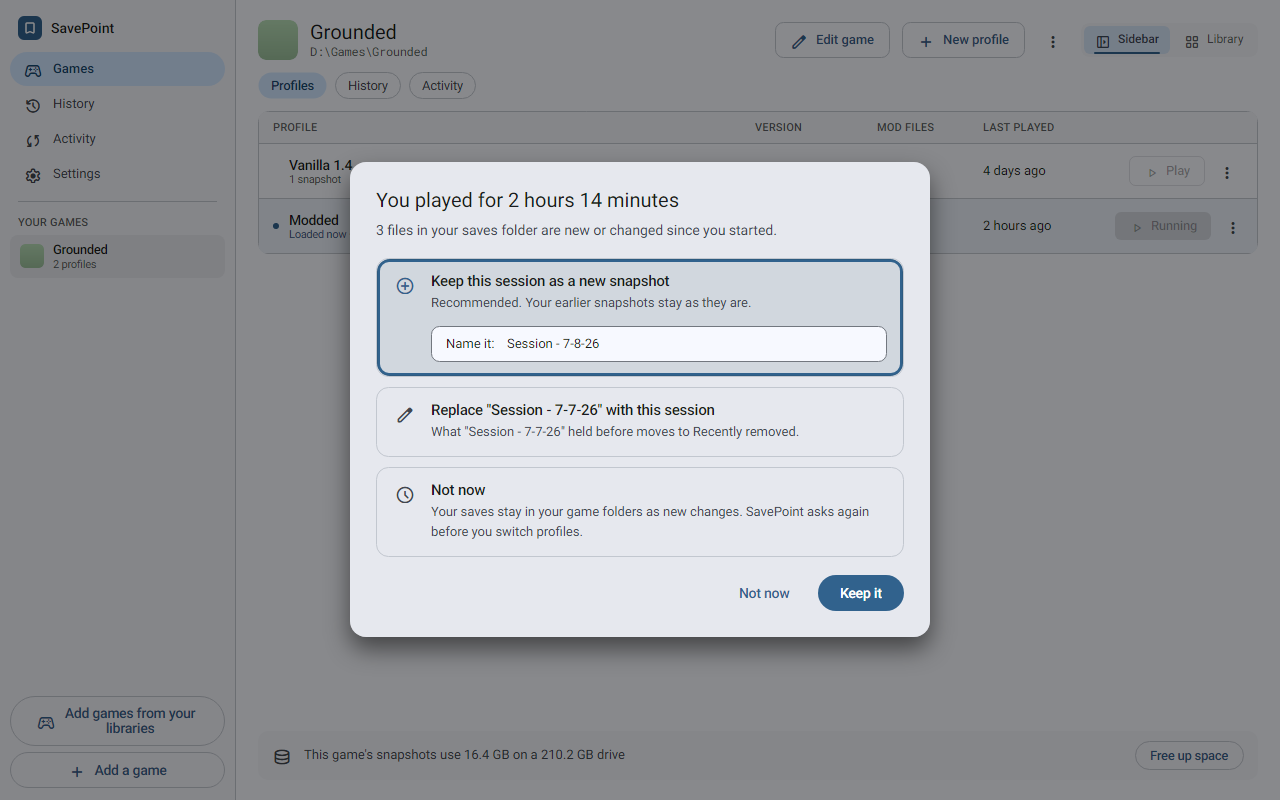
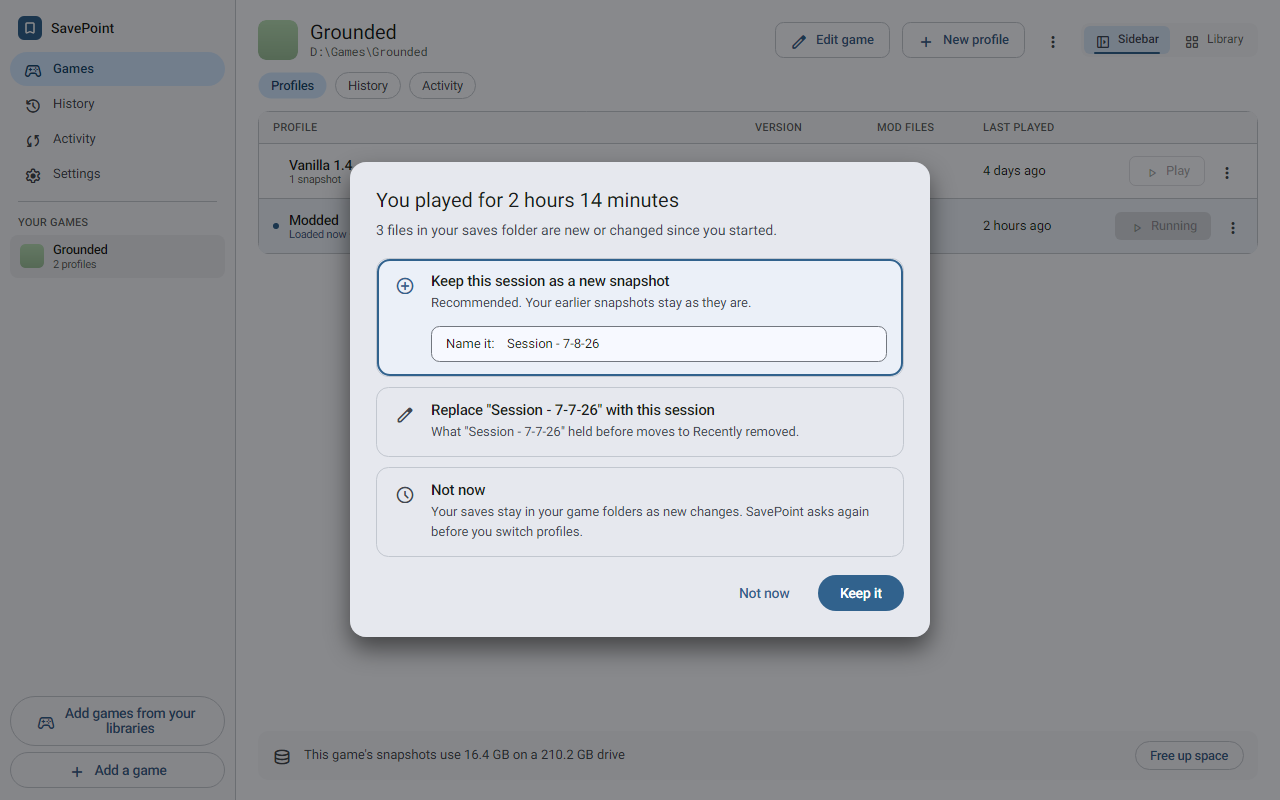
Fix doc screenshots and first-snapshot wording
The doc images showed the pre-0.9.11 storage folder, so the seed now uses
the Windows default (SavePoint Data\Storage). The job drops keyboard focus
before every picture so no focus ring is drawn.

Activity details for a new profile's first snapshot read 'Taking snapshot
"Vanilla 1.4" of "Vanilla 1.4"' because the snapshot is named after its
profile. That case now writes a step of its own: 'Taking the first snapshot
of "Vanilla 1.4".'. The fake backend mirrors it.

Observed reds: CaptureLinesTests.Creating_a_profile_writes_the_same_steps_with_the_new_profiles_name
(Expected activity.step.capture.startFirst {profile=Modded 1.6}, Actual
activity.step.capture.start {profile=Modded 1.6, snapshot=Modded 1.6});
JobLineFormatterTests.A_step_is_said_in_the_catalogs_words_with_its_arguments
(Expected 'Taking the first snapshot of "Vanilla 1.4".', Actual 'Something
happened that this version of SavePoint ...') and
Every_step_core_writes_has_a_sample_here_and_a_message_that_says_something.

Changed region(s): [[0.2812, 0.3125, 0.7188, 0.4688]]

diff --git a/tests/Savepoint.App.Tests/Features/DocScreenshots/DocScreenshotJob.cs b/tests/Savepoint.App.Tests/Features/DocScreenshots/DocScreenshotJob.cs
@@ -1,5 +1,6 @@
 using Avalonia;
 using Avalonia.Controls;
+using Avalonia.Input;
 using Avalonia.VisualTree;
 using Savepoint.App.Features.Activity;
 using Savepoint.App.Features.Editor;
@@ -71,27 +72,36 @@ internal static class DocScreenshotJob
         return app;
     }
 
+    // A page shows no keyboard focus ring, so focus is dropped before the picture is taken.
+    private static void Draw(ComposedApp app, string path)
+    {
+        app.Settle();
+        app.Window.Focusable = true;
+        app.Window.Focus(NavigationMethod.Unspecified);
+        app.RenderTo(path);
+    }
+
     private static ProfileRowViewModel Row(ComposedApp app, string id) => app.Games.Profiles.Single(row => row.Id == id);
 
     private static async Task Games(string path)
     {
         using var app = await StartAsync(Full(withSurvivalProfile: true));
 
-        app.RenderTo(path);
+        Draw(app, path);
     }
 
     private static async Task Profiles(string path)
     {
         using var app = await StartAsync(Full());
 
-        app.RenderTo(path);
+        Draw(app, path);
     }
 
     private static async Task FirstRun(string path)
     {
         using var app = await StartAsync(NoGames());
 
-        app.RenderTo(path);
+        Draw(app, path);
     }
 
     private static async Task AddGame(string path)
@@ -106,7 +116,7 @@ internal static class DocScreenshotJob
         editor.ExePath = "Grounded.exe";
         await editor.RefreshSuggestionsAsync();
 
-        app.RenderTo(path);
+        Draw(app, path);
     }
 
     private static async Task FirstSnapshot(string path)
@@ -121,7 +131,7 @@ internal static class DocScreenshotJob
             app.Backend.Jobs.LastStarted(JobKind.Capture).JobId,
             new JobProgress(60, 128, BytesDone: 9_300_000_000, BytesTotal: 12_100_000_000, CurrentPath: @"Maine\Content\Paks\pakchunk0-WindowsNoEditor.pak"));
 
-        app.RenderTo(path);
+        Draw(app, path);
     }
 
     private static async Task BeforePlaying(string path)
@@ -129,7 +139,7 @@ internal static class DocScreenshotJob
         using var app = await StartAsync(Full());
         _ = Row(app, VanillaId).PlayCommand.ExecuteAsync(null);
 
-        app.RenderTo(path);
+        Draw(app, path);
     }
 
     private static async Task AfterPlay(string path)
@@ -139,7 +149,7 @@ internal static class DocScreenshotJob
         app.Backend.Launch.ReportRunning(GameId, Now - TimeSpan.FromMinutes(134));
         app.Backend.Launch.ReportExited(GameId, new TimeSpan(2, 14, 0), 3);
 
-        app.RenderTo(path);
+        Draw(app, path);
     }
 
     private static async Task History(string path)
@@ -147,7 +157,7 @@ internal static class DocScreenshotJob
         using var app = await StartAsync(Full());
         app.Shell.Navigate(NavDestination.History);
 
-        app.RenderTo(path);
+        Draw(app, path);
     }
 
     private static async Task RecentlyRemoved(string path)
@@ -156,7 +166,7 @@ internal static class DocScreenshotJob
         app.Shell.Navigate(NavDestination.History);
         app.History.IsRemovedOpen = true;
 
-        app.RenderTo(path);
+        Draw(app, path);
     }
 
     private static async Task SettingsScreen(string path)
@@ -164,7 +174,7 @@ internal static class DocScreenshotJob
         using var app = await StartAsync(Full());
         app.Shell.Navigate(NavDestination.Settings);
 
-        app.RenderTo(path);
+        Draw(app, path);
     }
 
     // Five finished jobs and one still running, the newest first; the newest finished one, a snapshot of Vanilla, is open with its details.
@@ -216,6 +226,6 @@ internal static class DocScreenshotJob
         app.Settle();
         app.Find<ListBox>("JobList").GetVisualDescendants().OfType<ScrollViewer>().First().ScrollToHome();
 
-        app.RenderTo(path);
+        Draw(app, path);
     }
 }

diff --git a/tests/Savepoint.App.Tests/Features/Activity/JobLineFormatterTests.cs b/tests/Savepoint.App.Tests/Features/Activity/JobLineFormatterTests.cs
@@ -17,6 +17,7 @@ public class JobLineFormatterTests
     private static readonly IReadOnlyDictionary<string, JobLine.Step> _samples = new[]
     {
         JobLine.ForStep(JobSteps.CaptureStart, ("profile", "Vanilla"), ("snapshot", "After the patch")),
+        JobLine.ForStep(JobSteps.CaptureStartFirst, ("profile", "Vanilla 1.4")),
         JobLine.ForStep(JobSteps.CaptureFolder, ("folder", RepoRole.Install), ("path", @"C:\Games\Skyrim")),
         JobLine.ForStep(JobSteps.CaptureFolderDone, ("folder", RepoRole.External), ("files", 3)),
         JobLine.ForStep(JobSteps.CaptureFolderNotIncluded, ("folder", RepoRole.External)),
@@ -65,6 +66,8 @@ public class JobLineFormatterTests
     [Fact]
     public void A_step_is_said_in_the_catalogs_words_with_its_arguments()
     {
+        Assert.Equal("Taking snapshot \"After the patch\" of \"Vanilla\".", Format(_samples[JobSteps.CaptureStart]));
+        Assert.Equal("Taking the first snapshot of \"Vanilla 1.4\".", Format(_samples[JobSteps.CaptureStartFirst]));
         Assert.Equal("3 files were new, changed or removed in the saves folder.", Format(_samples[JobSteps.CaptureFolderDone]));
         Assert.Equal("1 file was new, changed or removed in the game folder.", Format(JobLine.ForStep(JobSteps.CaptureFolderDone, ("folder", RepoRole.Install), ("files", 1))));
         Assert.Equal("Nothing changed in the game folder.", Format(JobLine.ForStep(JobSteps.CaptureFolderDone, ("folder", RepoRole.Install), ("files", 0))));

diff --git a/src/Savepoint.Core/Services/Profiles/CaptureRunner.cs b/src/Savepoint.Core/Services/Profiles/CaptureRunner.cs
@@ -201,7 +201,16 @@ internal sealed class CaptureRunner
         var repos = GameFolders.Repos(_services, storage, game).Where(repo => roles.Contains(repo.Role)).ToList();
         plans = await RefuseUnsafeReplaceAsync(storage, game, profile, repos, plans, capture.Id, context.CancellationToken).ConfigureAwait(false);
         var progress = new CaptureProgressCombiner(context.Progress, context.AddLine);
-        context.AddStep(JobSteps.CaptureStart, ("profile", profile.Name), ("snapshot", pointName));
+        // A new profile's first snapshot carries the profile's name, so saying both would repeat it.
+        if (creating && pointName == profile.Name)
+        {
+            context.AddStep(JobSteps.CaptureStartFirst, ("profile", profile.Name));
+        }
+        else
+        {
+            context.AddStep(JobSteps.CaptureStart, ("profile", profile.Name), ("snapshot", pointName));
+        }
+
 
         // The two folders are separate repositories, so they are saved side by side; one failing never stops the other.
         var saved = await Task.WhenAll(repos.Select(repo => SaveFolderAsync(context, storage, game, repo, profile.BranchName, pointName, capture, forksNewBranches, plans?.GetValueOrDefault(repo.Role), progress.For(repo.Role)))).ConfigureAwait(false);

diff --git a/tests/Savepoint.App.Tests/Fakes/FakeProfilesApi.cs b/tests/Savepoint.App.Tests/Fakes/FakeProfilesApi.cs
@@ -186,7 +186,11 @@ public sealed class FakeProfilesApi : IProfilesApi
     private JobStarted StartCapture(GameDefinition game, Profile profile, string pointName, IEnumerable<RepoRole> folders)
     {
         var saved = new CaptureResult(profile.Id, State.NewPointId(), [.. folders.Select(r => new FolderOutcome(r))]);
-        return new JobStarted(_backend.Jobs.Start(JobKind.Capture, game.Id, saved, opening: [JobLine.ForStep(JobSteps.CaptureStart, ("profile", profile.Name), ("snapshot", pointName))], profile: new JobProfile(profile.Id, profile.Name)));
+        // Named after its profile means the profile's first snapshot, which the real work words without repeating the name.
+        var opening = pointName == profile.Name
+            ? JobLine.ForStep(JobSteps.CaptureStartFirst, ("profile", profile.Name))
+            : JobLine.ForStep(JobSteps.CaptureStart, ("profile", profile.Name), ("snapshot", pointName));
+        return new JobStarted(_backend.Jobs.Start(JobKind.Capture, game.Id, saved, opening: [opening], profile: new JobProfile(profile.Id, profile.Name)));
     }
 
     // A running game blocks every destructive step (D13.5); the active profile cannot go either.

diff --git a/tests/Savepoint.App.Tests/Fakes/FakeJobsApiTests.cs b/tests/Savepoint.App.Tests/Fakes/FakeJobsApiTests.cs
@@ -114,6 +114,17 @@ public class FakeJobsApiTests
     }
 
     [Fact]
+    public async Task A_snapshot_named_after_its_profile_opens_with_the_first_snapshot_step_like_the_real_work()
+    {
+        var backend = FakeBackend.Sample();
+        var modded = Ok(await backend.Profiles.ListAsync(SkyrimId, Ct)).Single(p => p.Id == ModdedId).Name;
+
+        var capture = Ok(await backend.Profiles.CaptureAsync(SkyrimId, ModdedId, modded)).JobId;
+
+        Assert.Equal([JobLine.ForStep(JobSteps.CaptureStartFirst, ("profile", modded))], Job(backend, capture).RecentLines);
+    }
+
+    [Fact]
     public async Task A_launch_says_it_is_starting_the_game_when_it_reaches_a_running_game()
     {
         var backend = FakeBackend.Sample();

diff --git a/tests/Savepoint.Core.Tests/Backend/CaptureLinesTests.cs b/tests/Savepoint.Core.Tests/Backend/CaptureLinesTests.cs
@@ -83,7 +83,8 @@ public class CaptureLinesTests
 
         var (_, job) = await workspace.CreateProfileAsync(game, "Modded 1.6");
 
-        Assert.Equal(JobLine.ForStep(JobSteps.CaptureStart, ("profile", "Modded 1.6"), ("snapshot", "Modded 1.6")), Steps(job).FirstOrDefault());
+        // The first snapshot is named after its profile, so the line says "first snapshot" instead of repeating the name.
+        Assert.Equal(JobLine.ForStep(JobSteps.CaptureStartFirst, ("profile", "Modded 1.6")), Steps(job).FirstOrDefault());
         Assert.Equal("Modded 1.6", job.Profile?.Name);
         Assert.Contains(Steps(job), step => step.MessageId == JobSteps.CaptureFolder && Equals(step.Args["folder"], "install"));
     }

diff --git a/src/Savepoint.Core/Api/JobSteps.cs b/src/Savepoint.Core/Api/JobSteps.cs
@@ -10,6 +10,9 @@ public static class JobSteps
     /// <summary>A snapshot of a profile begins. Arguments: <c>profile</c>, <c>snapshot</c>.</summary>
     public const string CaptureStart = "activity.step.capture.start";
 
+    /// <summary>The first snapshot of a new profile begins; it is named after the profile, so only the profile is said. Arguments: <c>profile</c>.</summary>
+    public const string CaptureStartFirst = "activity.step.capture.startFirst";
+
     /// <summary>A snapshot starts copying one folder. Arguments: <c>folder</c>, <c>path</c>.</summary>
     public const string CaptureFolder = "activity.step.capture.folder";
 

diff --git a/tests/Savepoint.App.Tests/Features/DocScreenshots/DocScreenshotSeed.cs b/tests/Savepoint.App.Tests/Features/DocScreenshots/DocScreenshotSeed.cs
@@ -20,7 +20,7 @@ internal static class DocScreenshotSeed
     public const string Install = @"D:\Games\Grounded";
     public const string SavesRaw = @"{localAppData}\Maine\Saved\SaveGames";
     public const string Saves = @"C:\Users\you\AppData\Local\Maine\Saved\SaveGames";
-    public const string StorageRoot = @"C:\Users\you\AppData\Local\SavePoint\Storage";
+    public const string StorageRoot = @"C:\Users\you\AppData\Local\SavePoint Data\Storage";
 
     public const long Gb = 1_000_000_000;
 
